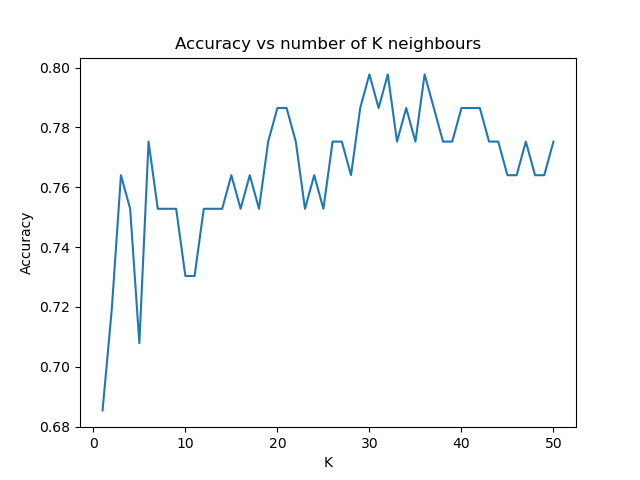
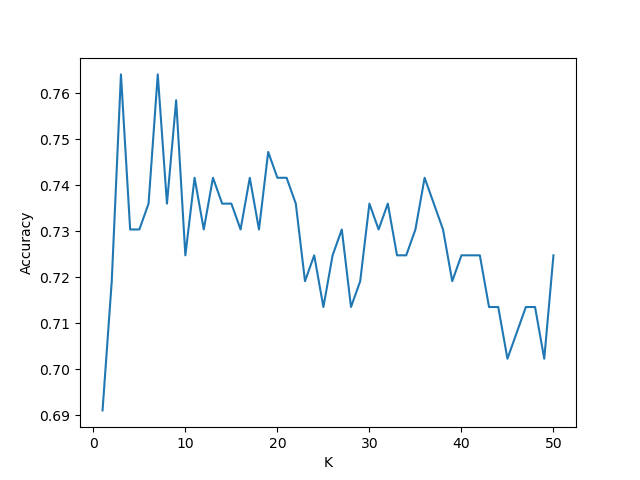
change to train-test split

diff --git a/comparison.py b/comparison.py
@@ -20,7 +20,7 @@ def model_performance(model_prediction, Y_test, runtime):
 def plot_cm_comparison(forest_prediction, knn_prediction, fisher_prediction, logistic_prediction, Y_test):
     """This function plots a confusion matrix for all four models"""
     fig, axs = plt.subplots(2, 2)
-    fig.suptitle('Confusion matrices')
+    #fig.suptitle('Confusion matrices')
     sns.heatmap(eval.confusion_matrix(forest_prediction, Y_test), annot=True, ax=axs[0, 0], xticklabels=False)
     axs[0, 0].set_title('Random Forest')
     sns.heatmap(eval.confusion_matrix(knn_prediction, Y_test), annot=True, ax=axs[0, 1], xticklabels=False)
@@ -29,7 +29,7 @@ def plot_cm_comparison(forest_prediction, knn_prediction, fisher_prediction, log
     axs[1, 0].set_title('Fishers LDA')
     sns.heatmap(eval.confusion_matrix(logistic_prediction, Y_test), annot=True, ax=axs[1, 1], yticklabels=False)
     axs[1, 1].set_title('Logistic Regression')
-    plt.savefig('plots\confusion_matices.png')
+    plt.savefig('plots\confusion_matrices.png')
 
     
 # Accuracy vs Training sample size
@@ -47,7 +47,7 @@ def metric_v_sample(x,y):
     fisher_accuracy_score = []
     fisher_loss = []
     for i in size:
-        X_train, Y_train, X_valid, Y_valid, X_test, Y_test=prep.partition(x,y,train_portion=i)
+        X_train, Y_train, X_test, Y_test=prep.partition(x,y,train_portion=i)
      
         KNN_predict = methods.KNN_predict(X_train, Y_train, X_test, 30)
         KNN_accuracy_score.append(eval.accuracy(KNN_predict,Y_test))
@@ -74,7 +74,7 @@ def metric_v_sample(x,y):
     plt.plot(size, fisher_accuracy_score, label="Fishers LDA")
     plt.xlabel("Training sample proportion")
     plt.ylabel("Accuracy")
-    plt.title("Accuracy vs Training Sample")
+    #plt.title("Accuracy vs Training Sample")
     plt.legend()
     plt.savefig('plots\Accuracy_v_trainingsample.png')
 
@@ -86,7 +86,7 @@ def metric_v_sample(x,y):
     plt.plot(size, fisher_loss,label="Fishers LDA")
     plt.xlabel("Training sample proportion")
     plt.ylabel("Expected Loss")
-    plt.title("Expected Loss vs Training Sample")
+    #plt.title("Expected Loss vs Training Sample")
     plt.legend()
     plt.savefig('plots\Exp_loss_v_trainingsample.png')
 
@@ -119,6 +119,6 @@ def accuracy_v_fold(x):
     plt.plot(folds, fisher_cross_vals, label="FishersLDA")
     plt.xlabel("Folds")
     plt.ylabel("Accuracy")
-    plt.title("Accuracy vs K-folds")
+    #plt.title("Accuracy vs K-folds")
     plt.legend()
     plt.savefig('plots\Accuracy_v_kfolds.png')

diff --git a/preprocessing.py b/preprocessing.py
@@ -82,10 +82,10 @@ def extractTitles(df):
 
 
 def partition(x, y, train_portion=None):
-    """ Partitions the data into train-validation-test.
+    """ Partitions the data into train-test.
     Inputs  - x : the titanic dataset
             - y : the survived columns
-    Outputs - The data splitted in 3 different parts
+    Outputs - The data split in 2 different parts
     """
     # Divide datasets
     random.seed(40)  # same seed for consistent workflow
@@ -93,12 +93,10 @@ def partition(x, y, train_portion=None):
     # Decide training portion
     if train_portion is None:
         train_portion = 0.8
-        valid_portion = 0.1
-        test_portion = 0.1
+        test_portion = 0.2
     else:
         train_portion = train_portion
-        valid_portion = 0.1
-        test_portion = 1-train_portion-valid_portion
+        test_portion = 1-train_portion
 
     # Converting the df to numpy arrays
     y = y.to_numpy()
@@ -107,17 +105,14 @@ def partition(x, y, train_portion=None):
     ### randomise the data set
     idx = [i for i in range(len(x))]
     random.shuffle(idx)
-    train_idx, valid_idx, test_idx = np.split(idx, [int(train_portion * len(x)),
-                                                    int((train_portion + test_portion) * len(x))])
+
+    train_idx, test_idx = np.split(idx, [int(train_portion * len(x))])
 
     X_train = x[train_idx]
     Y_train = y[train_idx]
 
-    X_valid = x[valid_idx]
-    Y_valid = y[valid_idx]
-
     X_test = x[test_idx]
     Y_test = y[test_idx]
 
-    return X_train, Y_train, X_valid, Y_valid, X_test, Y_test
+    return X_train, Y_train, X_test, Y_test
 

diff --git a/main.py b/main.py
@@ -47,7 +47,7 @@ def main(ifname, knn=False, forest=False, logistic=False, fisher=False, model_co
     # split 80:10:10 train-validation-test
     x = alldata.drop('Survived', axis=1)
     y = alldata["Survived"]
-    X_train, Y_train, X_valid, Y_valid, X_test, Y_test = prep.partition(x, y)
+    X_train, Y_train, X_test, Y_test = prep.partition(x, y)
     
     if knn == True:
         # Checking KNN vs number of K-neighbors to identify optimum K 

diff --git a/evaluation.py b/evaluation.py
@@ -44,7 +44,7 @@ def accuracy_v_param(X_train,Y_train,X_test,Y_test):
     plt.plot(K_values, accuracy_score)
     plt.xlabel("K")
     plt.ylabel("Accuracy")
-    plt.title("Accuracy vs number of K neighbours")
+    #plt.title("Accuracy vs number of K neighbours")
     plt.savefig('plots\KNN_accuracy_v_K.png')
 
 
